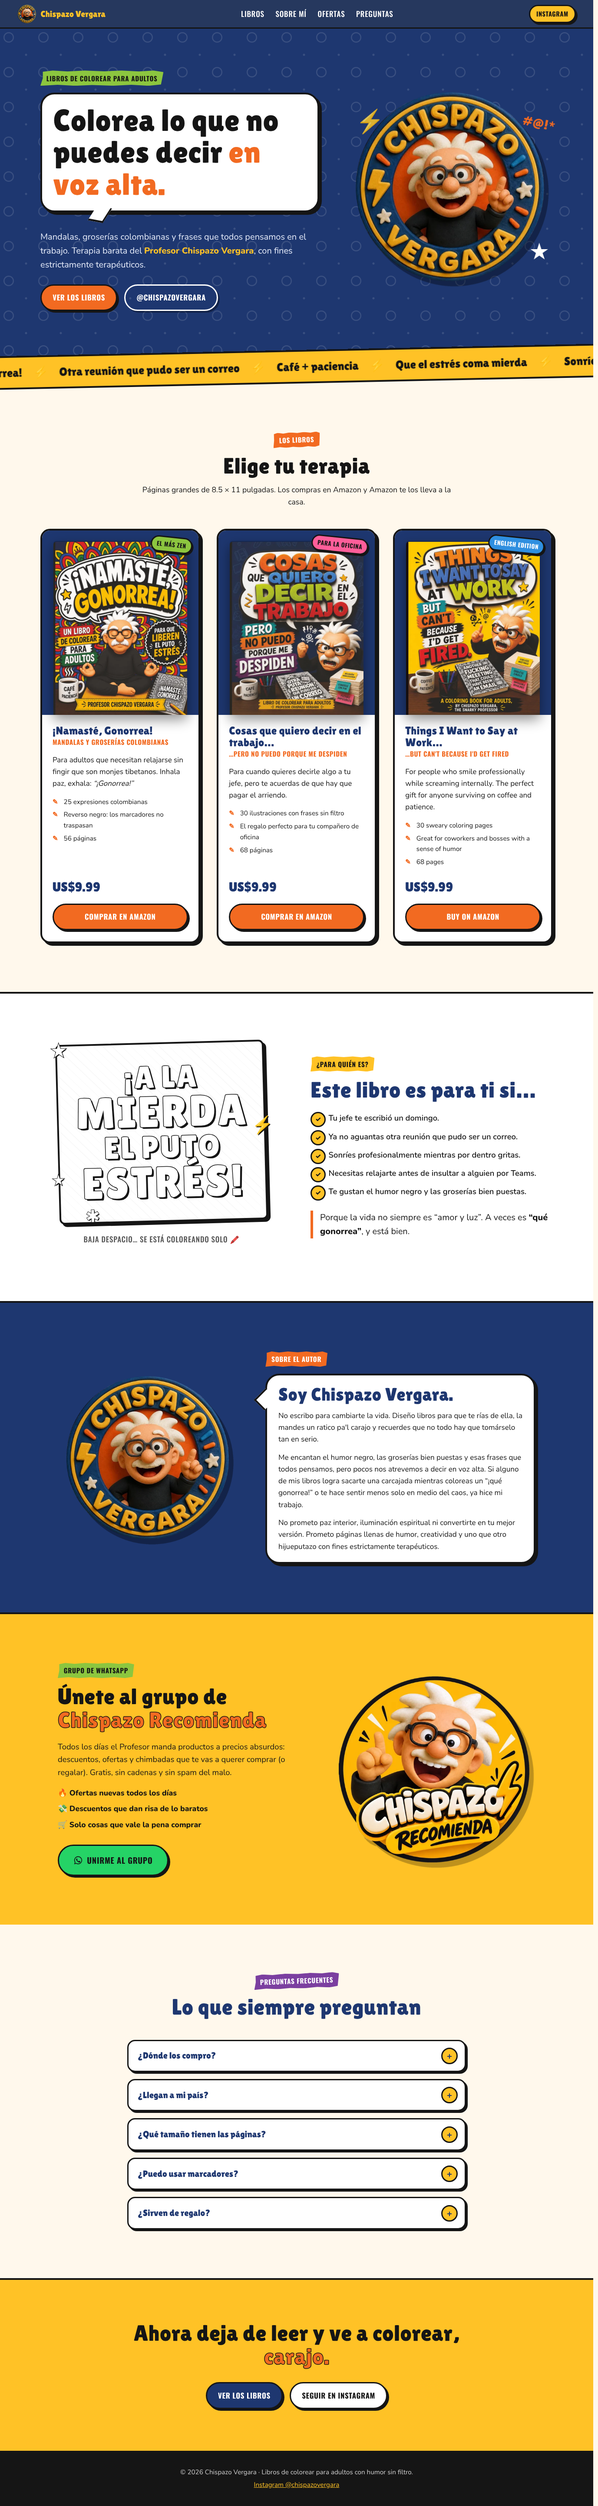
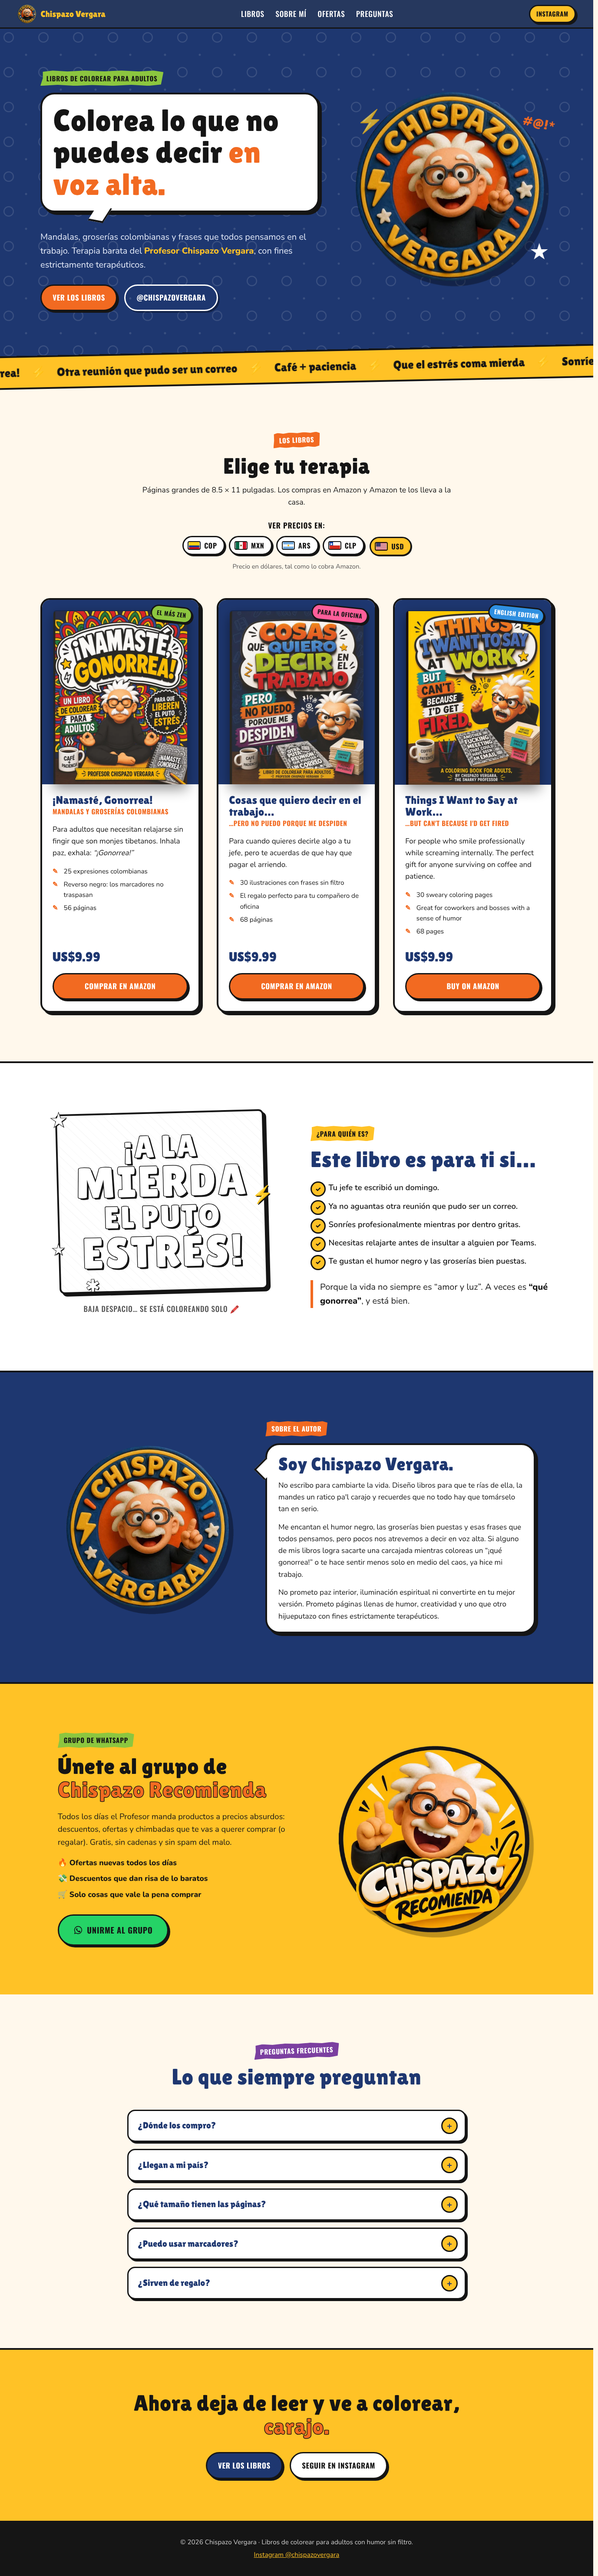
Add currency selector (COP, MXN, ARS, CLP, USD) to book prices
Prices convert from the Amazon USD price using the day's exchange rate
(open.er-api.com, cached 12h) with built-in fallback rates. Default
currency follows the browser's country and the choice is remembered.

Claude-Session: https://claude.ai/code/session_01RVrXk1ajRUH2FKbZKBCeS3

Changed region(s): [[0.0, 0.0, 0.9993, 0.9682]]

diff --git a/mi-web/script.js b/mi-web/script.js
@@ -70,3 +70,111 @@ if (frase) {
   window.addEventListener('resize', paint);
   paint();
 }
+
+// Selector de moneda: convierte el precio de Amazon (en dólares) con la tasa del día
+const currencyBox = document.getElementById('currency-options');
+if (currencyBox) {
+  // Banderas dibujadas a mano: los emojis de banderas no se ven en Windows
+  const flags = {
+    COP: '<rect width="30" height="10" fill="#FCD116"/><rect y="10" width="30" height="5" fill="#003893"/><rect y="15" width="30" height="5" fill="#CE1126"/>',
+    MXN: '<rect width="10" height="20" fill="#006847"/><rect x="10" width="10" height="20" fill="#fff"/><rect x="20" width="10" height="20" fill="#CE1126"/><circle cx="15" cy="10" r="2.6" fill="#8C5A2B"/>',
+    ARS: '<rect width="30" height="20" fill="#74ACDF"/><rect y="6.67" width="30" height="6.67" fill="#fff"/><circle cx="15" cy="10" r="2.4" fill="#F6B40E"/>',
+    CLP: '<rect width="30" height="20" fill="#fff"/><rect y="10" width="30" height="10" fill="#D52B1E"/><rect width="10" height="10" fill="#0039A6"/><path d="M5 2.4l1.1 3.3h3.5l-2.8 2 1.1 3.3L5 9l-2.9 2 1.1-3.3-2.8-2h3.5z" fill="#fff" transform="translate(0 -.6) scale(1 .95)"/>',
+    USD: '<rect width="30" height="20" fill="#fff"/><g fill="#B22234"><rect width="30" height="1.54"/><rect y="3.08" width="30" height="1.54"/><rect y="6.15" width="30" height="1.54"/><rect y="9.23" width="30" height="1.54"/><rect y="12.3" width="30" height="1.54"/><rect y="15.38" width="30" height="1.54"/><rect y="18.46" width="30" height="1.54"/></g><rect width="13" height="10.77" fill="#3C3B6E"/>',
+  };
+
+  const currencies = [
+    { code: 'COP', name: 'Peso colombiano', locale: 'es-CO', step: 100 },
+    { code: 'MXN', name: 'Peso mexicano', locale: 'es-MX', step: 1 },
+    { code: 'ARS', name: 'Peso argentino', locale: 'es-AR', step: 100 },
+    { code: 'CLP', name: 'Peso chileno', locale: 'es-CL', step: 10 },
+    { code: 'USD', name: 'Dólar', locale: 'en-US', step: 0 },
+  ];
+
+  // Tasas de respaldo (octubre 2026) por si el servicio de tasas no responde
+  let rates = { USD: 1, COP: 3237, MXN: 18.3, ARS: 1516, CLP: 979 };
+
+  const store = {
+    get(key) { try { return localStorage.getItem(key); } catch { return null; } },
+    set(key, value) { try { localStorage.setItem(key, value); } catch { /* sin almacenamiento */ } },
+  };
+
+  // Moneda inicial: la que eligió antes, o la de su país según el idioma del navegador
+  const byCountry = { CO: 'COP', MX: 'MXN', AR: 'ARS', CL: 'CLP' };
+  const region = (navigator.language || '').split('-')[1];
+  let current = store.get('moneda') || byCountry[region?.toUpperCase()] || 'USD';
+  if (!currencies.some((c) => c.code === current)) current = 'USD';
+
+  const prices = document.querySelectorAll('.price[data-usd]');
+  const note = document.getElementById('currency-note');
+
+  const format = (usd, cur) => {
+    if (cur.code === 'USD') return `US$${usd.toFixed(2)}`;
+    let value = usd * rates[cur.code];
+    if (cur.step > 1) value = Math.round(value / cur.step) * cur.step;
+    else value = Math.round(value);
+    const n = new Intl.NumberFormat(cur.locale, { maximumFractionDigits: 0 }).format(value);
+    return `≈ $${n} ${cur.code}`;
+  };
+
+  const render = () => {
+    const cur = currencies.find((c) => c.code === current);
+    prices.forEach((el) => {
+      el.textContent = format(parseFloat(el.dataset.usd), cur);
+      el.classList.toggle('converted', cur.code !== 'USD');
+    });
+    currencyBox.querySelectorAll('button').forEach((b) => {
+      const on = b.dataset.code === current;
+      b.setAttribute('aria-checked', on);
+      b.tabIndex = on ? 0 : -1;
+    });
+    note.textContent = cur.code === 'USD'
+      ? 'Precio en dólares, tal como lo cobra Amazon.'
+      : `Precio aproximado en ${cur.name.toLowerCase()} con la tasa de hoy. Amazon cobra en dólares y tu banco hace la conversión, así que puede variar un poco.`;
+  };
+
+  currencies.forEach((cur) => {
+    const b = document.createElement('button');
+    b.type = 'button';
+    b.setAttribute('role', 'radio');
+    b.dataset.code = cur.code;
+    b.title = cur.name;
+    b.innerHTML = `<svg class="flag" viewBox="0 0 30 20" aria-hidden="true">${flags[cur.code]}</svg><span>${cur.code}</span>`;
+    b.addEventListener('click', () => { current = cur.code; store.set('moneda', current); render(); });
+    currencyBox.appendChild(b);
+  });
+
+  // Flechas del teclado para moverse entre monedas
+  currencyBox.addEventListener('keydown', (e) => {
+    const keys = { ArrowRight: 1, ArrowDown: 1, ArrowLeft: -1, ArrowUp: -1 };
+    if (!(e.key in keys)) return;
+    e.preventDefault();
+    const i = currencies.findIndex((c) => c.code === current);
+    current = currencies[(i + keys[e.key] + currencies.length) % currencies.length].code;
+    store.set('moneda', current);
+    render();
+    currencyBox.querySelector(`[data-code="${current}"]`).focus();
+  });
+
+  render();
+
+  // Tasa del día (se guarda 12 horas para no pedirla en cada visita)
+  let cached = null;
+  try { cached = JSON.parse(store.get('tasas')); } catch { /* dato dañado: se ignora */ }
+  if (cached && Date.now() - cached.time < 12 * 3600 * 1000) {
+    rates = { ...rates, ...cached.rates };
+    render();
+  } else {
+    fetch('https://open.er-api.com/v6/latest/USD')
+      .then((r) => r.json())
+      .then((data) => {
+        if (data.result !== 'success') return;
+        const fresh = {};
+        currencies.forEach((c) => { if (data.rates[c.code]) fresh[c.code] = data.rates[c.code]; });
+        rates = { ...rates, ...fresh };
+        store.set('tasas', JSON.stringify({ time: Date.now(), rates: fresh }));
+        render();
+      })
+      .catch(() => { /* se quedan las tasas de respaldo */ });
+  }
+}

diff --git a/mi-web/index.html b/mi-web/index.html
@@ -81,6 +81,12 @@
         <p>Páginas grandes de 8.5 × 11 pulgadas. Los compras en Amazon y Amazon te los lleva a la casa.</p>
       </div>
 
+      <div class="currency reveal">
+        <p class="currency-label" id="currency-label">Ver precios en:</p>
+        <div class="currency-options" role="radiogroup" aria-labelledby="currency-label" id="currency-options"></div>
+        <p class="currency-note" id="currency-note">Precio en dólares, tal como lo cobra Amazon.</p>
+      </div>
+
       <div class="book-grid">
         <article class="book reveal">
           <a class="cover" href="https://www.amazon.com/dp/B0H6P5P7J3" target="_blank" rel="noopener">
@@ -97,7 +103,7 @@
               <li>56 páginas</li>
             </ul>
             <div class="buy">
-              <span class="price">US$9.99</span>
+              <span class="price" data-usd="9.99">US$9.99</span>
               <a class="btn btn-orange" href="https://www.amazon.com/dp/B0H6P5P7J3" target="_blank" rel="noopener">Comprar en Amazon</a>
             </div>
           </div>
@@ -118,7 +124,7 @@
               <li>68 páginas</li>
             </ul>
             <div class="buy">
-              <span class="price">US$9.99</span>
+              <span class="price" data-usd="9.99">US$9.99</span>
               <a class="btn btn-orange" href="https://www.amazon.com/dp/B0H4R6XSQF" target="_blank" rel="noopener">Comprar en Amazon</a>
             </div>
           </div>
@@ -139,7 +145,7 @@
               <li>68 pages</li>
             </ul>
             <div class="buy">
-              <span class="price">US$9.99</span>
+              <span class="price" data-usd="9.99">US$9.99</span>
               <a class="btn btn-orange" href="https://www.amazon.com/dp/B0HDTSWCLP" target="_blank" rel="noopener">Buy on Amazon</a>
             </div>
           </div>

diff --git a/mi-web/styles.css b/mi-web/styles.css
@@ -144,6 +144,24 @@ h2 { font-size: clamp(2rem, 5vw, 3.2rem); }
 .section-head p { font-size: 1.1rem; margin: .8rem 0 0; }
 
 .books { padding: clamp(4rem, 9vw, 7rem) clamp(16px, 4vw, 40px); }
+.currency { max-width: 760px; margin: -1.4rem auto 2.6rem; text-align: center; }
+.currency-label { font-family: var(--font-label); text-transform: uppercase; letter-spacing: .05em; font-weight: 700; margin: 0 0 .7rem; }
+.currency-options { display: flex; flex-wrap: wrap; justify-content: center; gap: .6rem; }
+.currency-options button {
+  display: inline-flex; align-items: center; gap: .5rem; cursor: pointer;
+  font-family: var(--font-label); font-weight: 700; font-size: 1rem; letter-spacing: .04em; color: var(--black);
+  background: var(--white); border: 3px solid var(--black); border-radius: 999px;
+  padding: .45rem .95rem .45rem .6rem; min-height: 44px;
+  box-shadow: 3px 3px 0 var(--black);
+  transition: transform .15s ease, box-shadow .15s ease, background-color .15s ease;
+}
+.currency-options button:hover { transform: translate(-1px, -1px); box-shadow: 4px 4px 0 var(--black); }
+.currency-options button[aria-checked="true"] { background: var(--yellow); transform: translate(2px, 2px); box-shadow: 1px 1px 0 var(--black); }
+.currency-options button:focus-visible { outline: 3px solid var(--sky); outline-offset: 3px; }
+.flag { width: 30px; height: 20px; border-radius: 4px; border: 2px solid var(--black); flex: none; }
+.currency-note { font-size: .92rem; color: #555; margin: .9rem auto 0; max-width: 34em; min-height: 2.9em; }
+.price.converted { font-size: 1.6rem; }
+
 .book-grid { max-width: 1180px; margin: 0 auto; display: grid; grid-template-columns: repeat(3, 1fr); gap: clamp(1.5rem, 3vw, 2.4rem); }
 .book {
   background: var(--white); border: 4px solid var(--black); border-radius: var(--radius);
